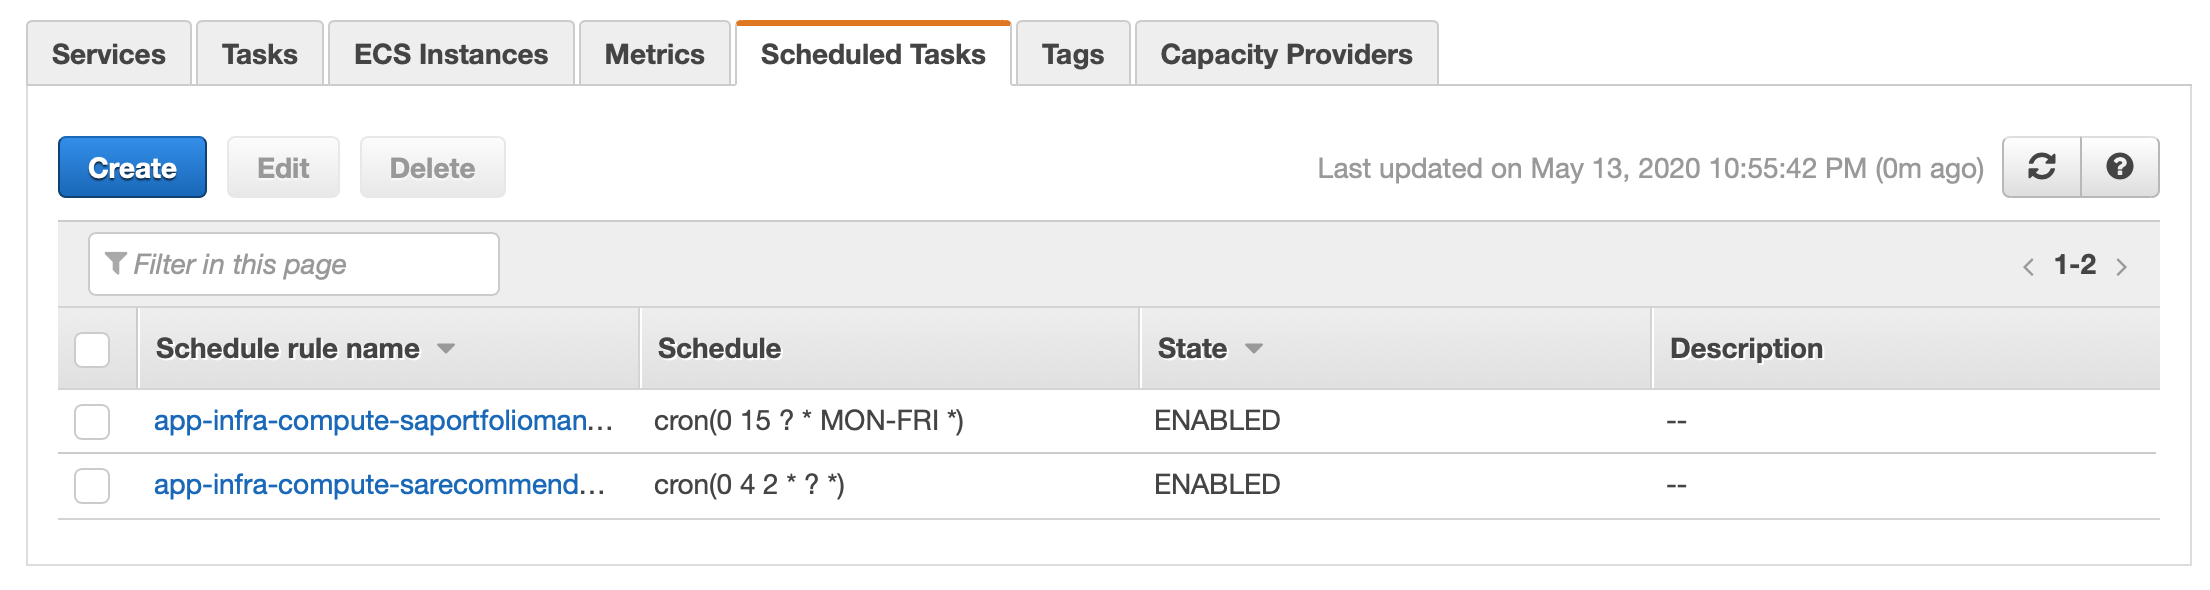
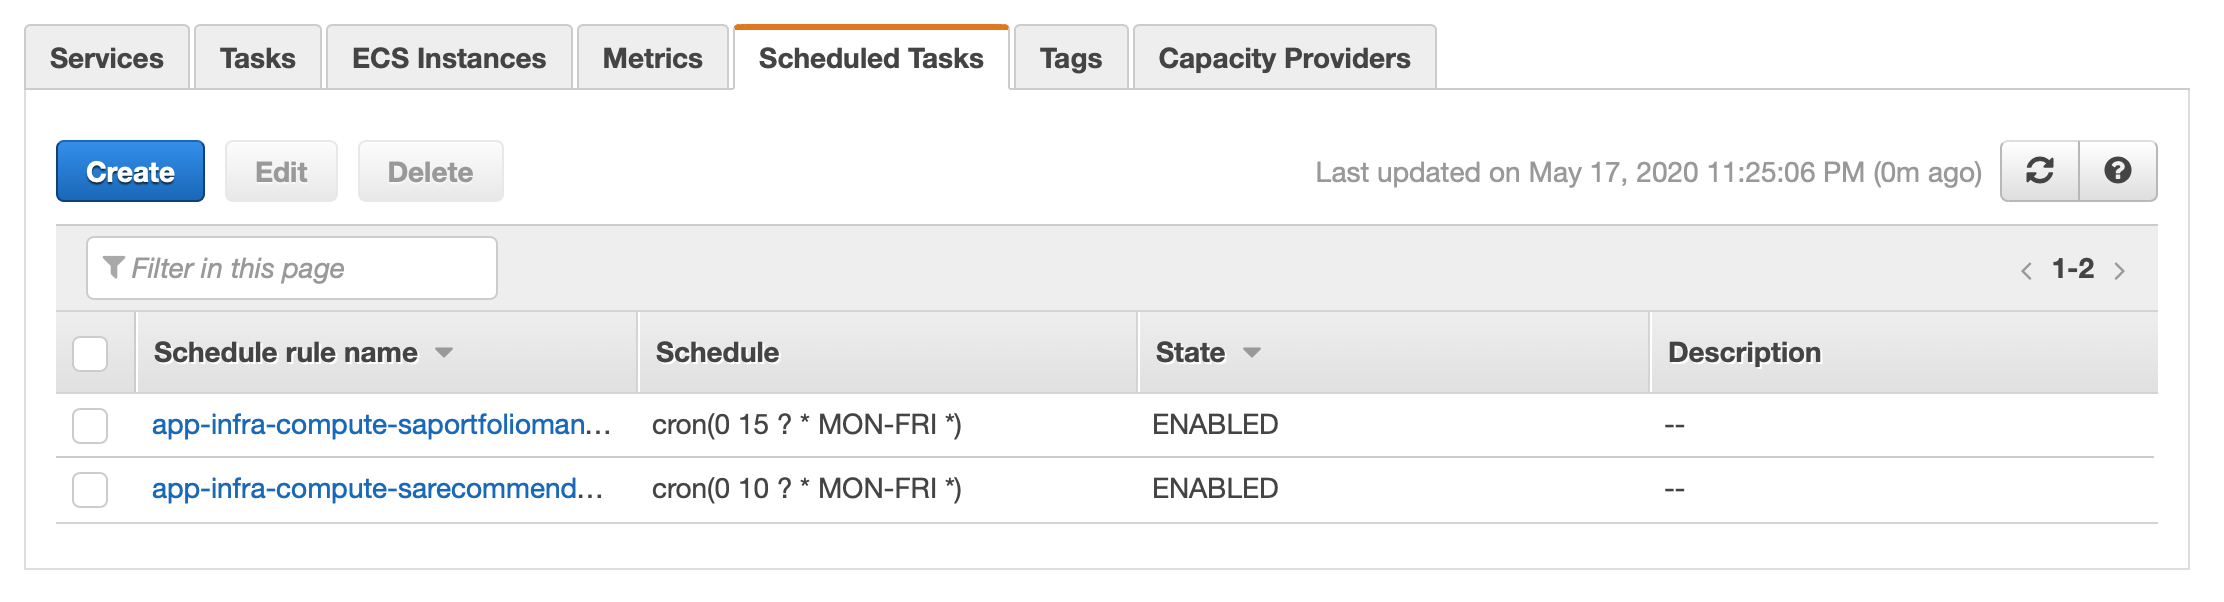
Task schedule changes Recommendation Service now runs daily Updated documentation

diff --git a/app_infra/app_infra_compute_stack.py b/app_infra/app_infra_compute_stack.py
@@ -135,7 +135,7 @@ class AppInfraComputeStack(core.Stack):
             ['-ticker_file', 'djia30.txt', '-output_size', '3', 'production', '-app_namespace', self.APPLICATION_PREFIX],
             {intrinio_api_key_name: ecs.Secret.from_ssm_parameter(self.intrinio_api_key_param)},
             "Recommendation service monthly scheduled task",
-            "cron(0 4 2 * ? *)"
+            "cron(0 10 ? * MON-FRI *)"
         )
 
         self.make_fargate_scheduled_task( 

diff --git a/README.md b/README.md
@@ -25,7 +25,7 @@ Broadly speaking, the system is organized in two services. The first is a recomm
 ## Recommendation Service
 **Status: Initial Development Complete**
 
-This service makes monthly recommendations of US equities using an algorithm based on market sentiment and stores the results in S3. It runs inside a docker container running as a Fargate task within the ECS cluster, and will generate new predictions at beginning of each month once all analyst target price predictions for the previous month have been made available. 
+This service makes monthly recommendations of US equities using an algorithm based on market sentiment and stores the results in S3. It runs inside a docker container running as a Fargate task within the ECS cluster, and will generate new predictions at beginning of each month once all analyst target price predictions for the previous month have been made available. It runs daily at 6AM EST, but will only generate a new recommendation when the existing one expires.
 
 The input is a list of ticker symbols that represents the universe of stocks that will be analyzed. This list can contain any US Stocks and currently uses the DOW30. Eventually it will be replaced with the S&P500, or other larger indexes. 
 
@@ -34,7 +34,7 @@ The service requires access to financial data, specifically pricing information 
 ## Portfolio Manager
 **Status: Initial Development Complete**
 
-The portfolio manager selects a portfolio based on the current recommendations, and is responsible for executing the underlining trades necessary to materialize it. Each time it runs, it loads the current portfolio and latest recommendations and decides whether any rebalancing is required. Before exiting, the portfolio manager will publish a SNS notification containing a summary of the current portfolio and its returns.
+The portfolio manager selects a portfolio based on the current recommendations, and is responsible for executing the underlining trades necessary to materialize it. Each time it runs, it loads and compares the current portfolio and latest recommendations and decides whether any rebalancing is required. Before exiting, the portfolio manager will publish a SNS notification containing a summary of the current portfolio and its returns.
 
 Like the Recommendation service, the portfolio manager runs as a Fargate task and is scheduled to run daily, at 11AM EST.
 
@@ -218,6 +218,7 @@ Application events are published to a SNS topic which is created by the app-infr
 
 1) Monthly, when a new recommendation is created
 2) Daily, to summarize the portfolio current returns and performance.
+3) Whenever an error prevented any of the services from running
 
 ## Running the CodeBuild jobs
 The ```app-infra-develop``` stack exposes 2 CodeBuild project that can be used to build the Stock Advisor services
